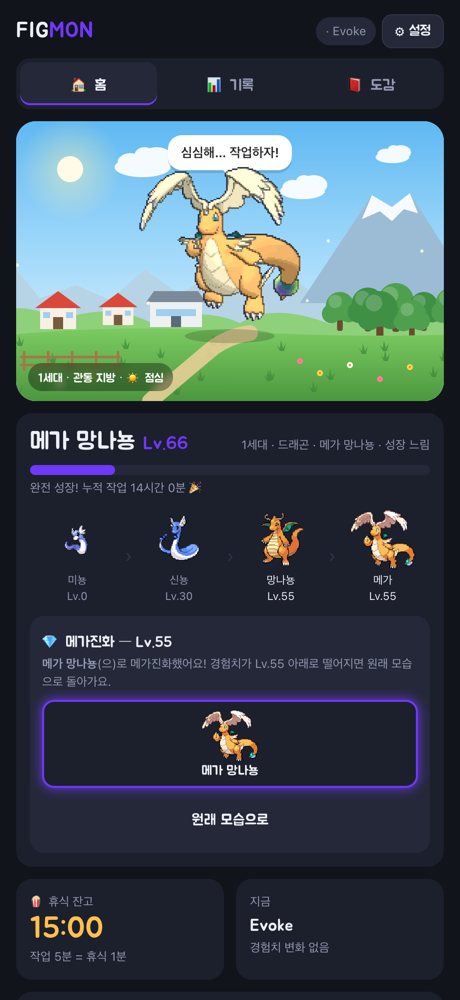
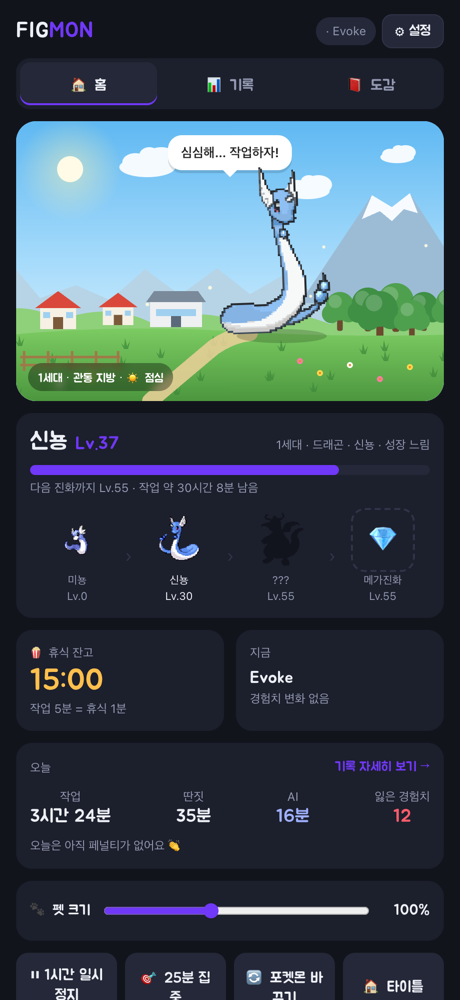
Pokédex tab: numbered grid with silhouettes, per-generation progress, registration stamp on graduation; README screenshots (picker/home/records/dex)

diff --git a/index.html b/index.html
@@ -150,8 +150,34 @@ header h1 span{color:var(--type)}
 button.b{flex:1;border:0;border-radius:12px;padding:11px 10px;font:15px Jua,sans-serif;cursor:pointer;background:var(--card2);color:var(--text)}
 button.b.primary{background:var(--type);color:#fff}
 button.b:disabled{opacity:.35;cursor:default}
-.dex{display:flex;gap:6px;flex-wrap:wrap}
-.dex img{width:52px;height:52px;image-rendering:pixelated;background:var(--card2);border-radius:10px}
+/* 도감: 기기 느낌의 빨간 상단 + 번호 칸 격자. 미등록은 실루엣, 등록하면 색과 도장이 찍힘 */
+.pokedex{padding-top:0;overflow:hidden}
+.pdx-top{display:flex;align-items:center;gap:8px;margin:0 -16px 12px;padding:12px 16px;background:linear-gradient(#e8404f,#c62f3d);border-bottom:3px solid #8e1f2a}
+.pdx-top .lens{width:26px;height:26px;border-radius:50%;background:radial-gradient(circle at 35% 35%,#bfe9ff,#3aa0e8 55%,#1d5f99);border:3px solid #fff;box-shadow:0 0 0 2px #8e1f2a}
+.pdx-top .led{width:10px;height:10px;border-radius:50%;border:1px solid rgba(0,0,0,.3)}
+.pdx-top .r{background:#ff8a8a}.pdx-top .y{background:#ffe066}.pdx-top .g{background:#7be08f}
+.pdx-top b{margin-left:auto;color:#fff;font:17px Jua,sans-serif;letter-spacing:1px}
+.pdx-bar{height:8px;background:var(--card2);border-radius:99px;overflow:hidden;margin:4px 0 2px}
+.pdx-bar div{height:100%;background:linear-gradient(90deg,#e8404f,#ffc04d);border-radius:99px}
+.pdx-gens button{min-height:44px}
+.pdx-grid{list-style:none;margin:0;padding:0;display:grid;grid-template-columns:repeat(auto-fill,minmax(78px,1fr));gap:6px}
+.pdx-grid li{position:relative;background:var(--card2);border:1px solid var(--line);border-radius:10px;padding:4px 2px 6px;text-align:center;min-height:44px}
+.pdx-grid .no{display:block;text-align:left;padding-left:6px;font-size:10px;color:var(--mute);font-variant-numeric:tabular-nums}
+.pdx-grid img{width:56px;height:56px;image-rendering:pixelated;display:block;margin:0 auto}
+.pdx-grid img.sil{filter:brightness(0);opacity:.22}
+.pdx-grid .nm{display:block;font-size:11px;color:var(--mute);white-space:nowrap;overflow:hidden;text-overflow:ellipsis}
+.pdx-grid li.on{background:linear-gradient(#2a2f45,var(--card2));border-color:#e8404f88}
+.pdx-grid li.on .nm{color:var(--text)}
+.pdx-grid .stamp{position:absolute;top:3px;right:3px;font-size:9px;color:#ff6b78;border:1.5px solid #ff6b78;border-radius:4px;padding:0 3px;transform:rotate(12deg)}
+.pdx-grid .x{position:absolute;top:3px;left:4px;font-size:10px;color:var(--warn)}
+.pdx-grid li.new{animation:pdxNew 1.6s ease 2}
+@keyframes pdxNew{0%,100%{box-shadow:none}40%{box-shadow:0 0 0 3px #ffc04d,0 0 18px #ffc04d}}
+.pdx-reg{text-align:center}
+.pdx-reg img{width:120px;height:120px;image-rendering:pixelated;animation:pdxPop .6s ease}
+.pdx-reg .no{color:var(--mute);font-size:13px}
+.pdx-reg .stampbig{display:inline-block;margin-top:8px;color:#ff6b78;border:2.5px solid #ff6b78;border-radius:8px;padding:2px 10px;font:18px Jua,sans-serif;transform:rotate(-8deg);animation:pdxStamp .5s .5s ease both}
+@keyframes pdxPop{0%{filter:brightness(0);transform:scale(.6)}60%{filter:brightness(0)}100%{filter:none;transform:none}}
+@keyframes pdxStamp{0%{opacity:0;transform:rotate(-8deg) scale(2.2)}100%{opacity:1;transform:rotate(-8deg) scale(1)}}
 
 /* ---------- modals ---------- */
 .modal{position:fixed;inset:0;background:rgba(5,6,12,.78);display:none;z-index:20;overflow:auto;padding:20px 12px}
@@ -461,9 +487,12 @@ label.f textarea{height:64px;resize:vertical}
   </section>
 
   <section id="tab-dex" role="tabpanel" aria-labelledby="tabbtn-dex" hidden>
-    <div class="card" id="dexCard">
-      <div class="card-head"><span class="muted">📕 졸업한 포켓몬</span><span class="muted" id="dexCount"></span></div>
-      <div class="dex" id="dex"></div>
+    <div class="card pokedex" id="dexCard">
+      <div class="pdx-top" aria-hidden="true"><i class="lens"></i><i class="led r"></i><i class="led y"></i><i class="led g"></i><b>FIGMON 도감</b></div>
+      <div class="card-head"><span class="muted">📕 졸업하면 도감에 등록돼요</span><span class="muted" id="dexCount"></span></div>
+      <div class="pdx-bar"><div id="dexBar"></div></div>
+      <div class="tabs pdx-gens" id="dexGens" role="tablist" aria-label="도감 세대"></div>
+      <ul class="pdx-grid" id="dex" aria-label="도감 목록"></ul>
     </div>
     <div class="card">
       <div class="card-head"><span class="muted">📈 누적</span></div>
@@ -1530,7 +1559,8 @@ function render() {
   } else {
     $('#name').textContent = '파트너 없음'; $('#lv').textContent = ''; $('#species').textContent = '';
     $('#xpBar').style.width = '0'; $('#evoInfo').textContent = ''; setHTML('#track', ''); $('#eeveeBox').innerHTML = '';
-    if (!$('#pickModal').classList.contains('open') && !$('#title').classList.contains('open')) openPicker();
+    // 졸업 직후 도감을 구경하는 동안은 선택 창을 띄우지 않음 (다른 탭으로 가면 다시 뜸)
+    if (curTab !== 'dex' && !$('#pickModal').classList.contains('open') && !$('#title').classList.contains('open')) openPicker();
   }
 
   $('#bank').textContent = clock(S.bank_sec);
@@ -1562,9 +1592,7 @@ function render() {
   $('#masterCard').hidden = !(p && p.mastered);
 
   setHTML('#events', S.events.map(e => `<li><span>${ICON[e.kind] || '•'}</span><span>${e.msg}</span><time>${hhmm(e.t)}</time></li>`).join('') || '<li class="muted">아직 기록이 없어요</li>');
-  $('#dexCount').textContent = S.dex.length ? `${S.dex.length}마리` : '';
-  setHTML('#dex', S.dex.map(d => `<span title="${d.nickname || d.species[1]} Lv.${d.level}">${pixTag(d.species[0])}</span>`).join('')
-    || `<div class="empty">아직 졸업한 포켓몬이 없어요. Lv.${(p && p.master_lv) || 36}에 완전 성장하면 홈에서 졸업시킬 수 있어요.</div>`);
+  renderDex();
 
   prev = p ? {line:p.line, stage:p.stage, level:p.level, xp:p.xp, species:p.species, branch_pending:p.branch_pending} : null;
 }
@@ -1939,7 +1967,48 @@ $('#name').onclick = async () => {
 $('#gradBtn').onclick = async () => {
   if (!await ask('졸업시킬까요?', `${S.pet.name}을(를) 도감에 등록하고 새 파트너를 키워요`, {yes: '졸업!'})) return;
   S = await api('/api/graduate', {}); prev = null; shownId = null; render();
+  showDexRegistered(S.dex[S.dex.length - 1]);
 };
+
+/* ---------- 도감 ---------- */
+// 계열 하나 = 도감 한 칸 (번호는 첫 모습의 전국도감 번호). 졸업한 계열만 색이 들어가요.
+let dexGen = null;
+const dexNo = n => 'No.' + String(n).padStart(3, '0');
+// 옛 저장용 숨은 계열(예: 133-water)은 기본 계열(133) 칸에 함께 등록
+const dexKey = k => META.lines[k]?.hidden ? k.split('-')[0] : k;
+function renderDex() {
+  if (!META || !S) return;
+  const reg = {}; for (const d of S.dex) (reg[dexKey(d.line)] = reg[dexKey(d.line)] || []).push(d);
+  const all = Object.entries(META.lines).filter(([, l]) => !l.hidden).sort((a, b) => a[1].stages[0][0] - b[1].stages[0][0]);
+  const done = all.filter(([k]) => reg[k]).length;
+  if (dexGen === null) dexGen = S.dex.length ? META.lines[S.dex[S.dex.length - 1].line]?.gen || 1 : (S.pet ? S.pet.gen : 1);
+  $('#dexCount').textContent = `등록 ${done} / ${all.length}`;
+  $('#dexBar').style.width = `${done / all.length * 100}%`;
+  setHTML('#dexGens', [1, 2, 3, 4, 5, 6, 7, 8, 9].map(g => {
+    const gl = all.filter(([, l]) => l.gen === g);
+    return `<button type="button" role="tab" data-g="${g}" class="${g === dexGen ? 'on' : ''}" aria-selected="${g === dexGen}">${g}세대 ${gl.filter(([k]) => reg[k]).length}/${gl.length}</button>`;
+  }).join(''));
+  setHTML('#dex', all.filter(([, l]) => l.gen === dexGen).map(([k, l]) => {
+    const no = dexNo(l.stages[0][0]), got = reg[k];
+    if (!got) return `<li aria-label="${no} 미등록"><span class="no">${no}</span><img class="sil" src="${PIX(l.stages[l.stages.length - 1][0])}" loading="lazy" alt=""><span class="nm">???</span></li>`;
+    const d = got[got.length - 1], nm = d.nickname || d.species[1];
+    const tip = `${no} ${nm} · Lv.${d.level} · ${new Date(d.finished * 1000).toLocaleDateString('ko')} 등록${got.length > 1 ? ` · ${got.length}번 졸업` : ''}`;
+    return `<li class="on" data-line="${k}" title="${esc(tip)}" aria-label="${esc(tip)}"><span class="no">${no}</span>${pixTag(d.species[0])}<span class="nm">${esc(nm)}</span>${got.length > 1 ? `<span class="x">×${got.length}</span>` : ''}<span class="stamp" aria-hidden="true">등록</span></li>`;
+  }).join(''));
+}
+$('#dexGens').onclick = e => { const g = e.target.closest('[data-g]'); if (g) { dexGen = +g.dataset.g; renderDex(); } };
+$('#dexGens').onkeydown = e => {
+  if (e.key !== 'ArrowRight' && e.key !== 'ArrowLeft') return;
+  dexGen = (dexGen + (e.key === 'ArrowRight' ? 0 : 7)) % 9 + 1; renderDex(); $(`#dexGens [data-g="${dexGen}"]`).focus();
+};
+// 졸업 직후: 실루엣 → 색이 들어오며 '도감 등록' 도장 → 도감 탭에서 그 칸이 반짝
+async function showDexRegistered(d) {
+  const l = META.lines[d.line], no = dexNo(l.stages[0][0]);
+  const go = await ask('도감 등록 완료!', `<div class="pdx-reg">${pixTag(d.species[0])}<div class="no">${no}</div><b>${esc(d.nickname || d.species[1])}</b> · Lv.${d.level}<br><span class="stampbig">도감 등록</span></div>`, {yes: '도감 보기', no: '닫기'});
+  if (!go) return;
+  dexGen = l.gen; $('#pickModal').classList.remove('open'); $('[data-tab="dex"]').click(); renderDex();
+  const li = $(`#dex [data-line="${dexKey(d.line)}"]`); if (li) { li.classList.add('new'); li.scrollIntoView({block: 'center', behavior: calm() ? 'auto' : 'smooth'}); }
+}
 
 /* ---------- 설정 ---------- */
 const LIST_KEYS = ['work_apps', 'work_domains', 'distract_apps', 'distract_domains', 'ai_apps', 'ai_domains'];

diff --git a/README.md b/README.md
@@ -42,18 +42,20 @@
 
 ## 🖼 실제 화면
 
-대시보드(`http://127.0.0.1:7777`)를 v1.28.2에서 그대로 찍었어요. 기록은 예시 데이터예요.
+대시보드(`http://127.0.0.1:7777`)를 v1.28.2에서 그대로 찍었어요. 기록·도감은 예시 데이터예요.
 
 <table>
   <tr>
-    <td align="center"><img src="docs/screenshots/home.png" width="260" alt="홈 탭: 관동 지방 배경 위의 메가 망나뇽, 레벨·진화 단계·메가진화 카드"></td>
-    <td align="center"><img src="docs/screenshots/report.png" width="260" alt="기록 탭: 최근 7일 작업·딴짓·AI 시간, 집중 비율, 요일별 막대, 작업한 곳 순위"></td>
-    <td align="center" valign="top"><img src="docs/screenshots/dex.png" width="260" alt="도감 탭: 졸업한 포켓몬 3마리와 누적 작업 시간"></td>
+    <td align="center" valign="top"><img src="docs/screenshots/picker.png" width="200" alt="처음 실행: 세대·타입별로 함께 자랄 포켓몬 고르기"></td>
+    <td align="center" valign="top"><img src="docs/screenshots/home.png" width="200" alt="홈 탭: 관동 지방 배경 위의 신뇽 Lv.37, 다음 진화까지 남은 시간과 진화 단계"></td>
+    <td align="center" valign="top"><img src="docs/screenshots/report.png" width="200" alt="기록 탭: 최근 7일 작업·딴짓·AI 시간, 집중 비율, 요일별 막대, 작업한 곳 순위"></td>
+    <td align="center" valign="top"><img src="docs/screenshots/dex.png" width="200" alt="도감 탭: 번호 칸 격자, 졸업한 포켓몬은 색과 등록 도장, 나머지는 실루엣"></td>
   </tr>
   <tr>
-    <td align="center">🏠 홈 — 키우는 포켓몬 · 진화 단계</td>
-    <td align="center">📊 기록 — 작업 · 딴짓 · AI 시간</td>
-    <td align="center">📕 도감 — 졸업한 포켓몬</td>
+    <td align="center">① 포켓몬 고르기</td>
+    <td align="center">② 홈 — 같이 성장</td>
+    <td align="center">③ 기록 — 작업·딴짓·AI 시간</td>
+    <td align="center">④ 도감 — 졸업하면 등록</td>
   </tr>
 </table>
 
@@ -222,7 +224,7 @@ Figma나 VS Code 같은 작업 앱을 앞에 띄워 두고 일하면 돼요.
 
 ### 5. 포켓몬 바꾸기 · 졸업
 - **🔄 포켓몬 바꾸기**로 언제든 바꿀 수 있지만, 새 포켓몬은 **Lv.0부터 다시** 시작해요.
-- 완전 성장한 포켓몬은 **🎓 졸업**시키면 📕 도감에 남고, 전설·환상을 여는 조건이 채워져요.
+- 완전 성장한 포켓몬은 **🎓 졸업**시키면 📕 **도감에 등록**돼요. 실루엣이던 칸에 색이 들어오고 '등록' 도장이 찍혀요. 도감은 번호 순 격자로, 세대별 등록 수(예: 1세대 8/79)를 보여 줘요. 졸업하면 전설·환상을 여는 조건도 채워져요.
 
 ### 6. 기록 보기 (📊 기록 탭)
 - 기간: 오늘 / 어제 / 최근 7일 / 최근 30일 (60일까지 보관)

diff --git a/README.en.md b/README.en.md
@@ -44,18 +44,20 @@
 
 ## 🖼 Screenshots
 
-Taken from the real dashboard (`http://127.0.0.1:7777`) on v1.28.2. The records are sample data.
+Taken from the real dashboard (`http://127.0.0.1:7777`) on v1.28.2. Records and Pokédex entries are sample data.
 
 <table>
   <tr>
-    <td align="center"><img src="docs/screenshots/home.png" width="260" alt="Home tab: Mega Dragonite on the Kanto backdrop with level, evolution stages and Mega Evolution card"></td>
-    <td align="center"><img src="docs/screenshots/report.png" width="260" alt="Records tab: last 7 days of work, distraction and AI time, focus ratio, daily bars, top work apps"></td>
-    <td align="center" valign="top"><img src="docs/screenshots/dex.png" width="260" alt="Pokédex tab: three graduated Pokémon and total work time"></td>
+    <td align="center" valign="top"><img src="docs/screenshots/picker.png" width="200" alt="First launch: pick a partner by generation and type"></td>
+    <td align="center" valign="top"><img src="docs/screenshots/home.png" width="200" alt="Home tab: Dragonair Lv.37 on the Kanto backdrop with time to next evolution and stages"></td>
+    <td align="center" valign="top"><img src="docs/screenshots/report.png" width="200" alt="Records tab: last 7 days of work, distraction and AI time, focus ratio, daily bars, top work apps"></td>
+    <td align="center" valign="top"><img src="docs/screenshots/dex.png" width="200" alt="Pokédex tab: numbered grid, graduated Pokémon in color with a stamp, the rest as silhouettes"></td>
   </tr>
   <tr>
-    <td align="center">🏠 Home — your Pokémon · evolution stages</td>
-    <td align="center">📊 Records — work · distraction · AI time</td>
-    <td align="center">📕 Pokédex — graduated Pokémon</td>
+    <td align="center">① Pick a Pokémon</td>
+    <td align="center">② Home — grow together</td>
+    <td align="center">③ Records — work · distraction · AI</td>
+    <td align="center">④ Pokédex — register by graduating</td>
   </tr>
 </table>
 
@@ -222,7 +224,7 @@ While you type, the pet reacts with **gestures** instead of words.
 
 ### 5. Switch or graduate
 - **🔄 Switch Pokémon** anytime, but the new one starts **from Lv.0**.
-- **🎓 Graduate** a fully grown Pokémon to keep it in the 📕 Pokédex and progress toward Legendary/Mythical unlocks.
+- **🎓 Graduate** a fully grown Pokémon to **register it in the 📕 Pokédex**: its silhouette slot fills with color and gets a "registered" stamp. The Pokédex is a numbered grid with per-generation progress (e.g. Gen 1 8/79). Graduating also counts toward Legendary/Mythical unlocks.
 
 ### 6. Records (📊 tab)
 - Period: today / yesterday / last 7 days / last 30 days (kept for 60 days)
